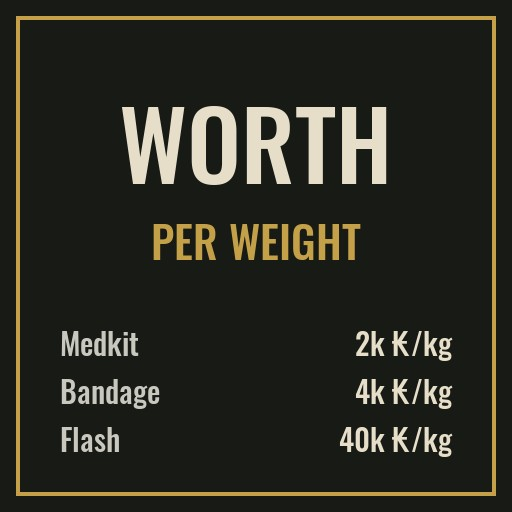
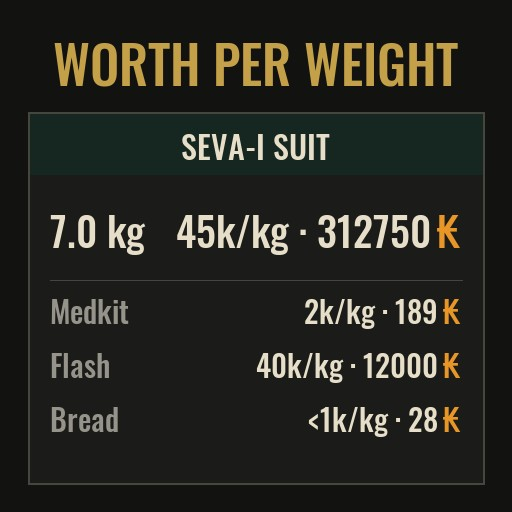
Add Makefile and tooltip-style Workshop preview
make tools | bp | mod (default) | install-local | preview | upload | clean.
The preview now shows "<value>/kg · <price>" rows as in the in-game tooltip.

diff --git a/tools/preview.py b/tools/preview.py
@@ -1,14 +1,45 @@
-"""Render the 512x512 Workshop preview image using the game's own Oswald font."""
+"""Render the 512x512 Workshop preview: a tooltip-style card using the game's own Oswald font.
+
+    python3 -I tools/preview.py <Oswald-Medium.ufont> <out.jpg>
+"""
 import sys
 from PIL import Image, ImageDraw, ImageFont
+
 font_path, out = sys.argv[1], sys.argv[2]
-img = Image.new('RGB', (512, 512), (24, 26, 22))
+W = H = 512
+BG, PANEL, HEADER = (18, 19, 17), (27, 28, 25), (22, 38, 33)
+TEXT, DIM, GOLD, ORANGE = (230, 222, 200), (150, 148, 138), (196, 160, 72), (232, 150, 40)
+f = lambda s: ImageFont.truetype(font_path, s)
+
+img = Image.new('RGB', (W, H), BG)
 d = ImageDraw.Draw(img)
-big, mid, small = (ImageFont.truetype(font_path, s) for s in (96, 44, 30))
-d.rectangle([16, 16, 495, 495], outline=(196, 160, 72), width=4)
-d.text((256, 140), 'WORTH', font=big, fill=(230, 222, 200), anchor='mm')
-d.text((256, 240), 'PER WEIGHT', font=mid, fill=(196, 160, 72), anchor='mm')
-for i, (n, v) in enumerate([('Medkit', '2k'), ('Bandage', '4k'), ('Flash', '40k')]):
-    d.text((60, 320 + i * 48), n, font=small, fill=(200, 200, 190))
-    d.text((452, 320 + i * 48), f'{v} ₭/kg', font=small, fill=(230, 222, 200), anchor='ra')
+d.text((W // 2, 62), 'WORTH PER WEIGHT', font=f(52), fill=GOLD, anchor='mm')
+
+# tooltip card
+x0, y0, x1, y1 = 28, 112, W - 28, H - 28
+d.rectangle([x0, y0, x1, y1], fill=PANEL, outline=(70, 70, 62), width=2)
+d.rectangle([x0 + 2, y0 + 2, x1 - 2, y0 + 62], fill=HEADER)
+d.text((W // 2, y0 + 33), 'SEVA-I SUIT', font=f(32), fill=TEXT, anchor='mm')
+
+# weight left, "<value>/kg · <price> ₭" right, like the game's tooltip row
+row = y0 + 118
+d.text((x0 + 22, row), '7.0 kg', font=f(40), fill=TEXT, anchor='lm')
+price_font = f(40)
+coupon = '₭'
+right = x1 - 22
+cw = d.textlength(coupon, font=price_font)
+d.text((right, row), coupon, font=price_font, fill=ORANGE, anchor='rm')
+d.text((right - cw - 6, row), '45k/kg · 312750', font=price_font, fill=TEXT, anchor='rm')
+
+# a few more rows to read as "every item"
+rows = [('Medkit', '2k/kg · 189'), ('Flash', '40k/kg · 12000'), ('Bread', '<1k/kg · 28')]
+y = row + 80
+d.line([x0 + 22, y - 30, x1 - 22, y - 30], fill=(70, 70, 62), width=1)
+for name, value in rows:
+    d.text((x0 + 22, y), name, font=f(30), fill=DIM, anchor='lm')
+    vw = d.textlength(coupon, font=f(30))
+    d.text((right, y), coupon, font=f(30), fill=ORANGE, anchor='rm')
+    d.text((right - vw - 5, y), value, font=f(30), fill=TEXT, anchor='rm')
+    y += 54
+
 img.save(out, quality=90)

diff --git a/README.md b/README.md
@@ -9,6 +9,17 @@ other mods are covered. Item names are not touched (compatible with renaming mod
 
 ## Building
 
+```sh
+make tools                     # repak + patched retoc into .bin/ (needs cargo, git)
+make UE_ROOT=/path/to/UE GAME="/path/to/S.T.A.L.K.E.R. 2 Heart of Chornobyl"   # Blueprint + Workshop folder
+make install-local             # test: copy over your local Workshop download
+make upload STEAM_USER=<name> NOTE="change note"
+make preview                   # regenerate workshop/preview.jpg from the game's font
+```
+
+The individual steps behind those targets:
+
+
 Requirements: Python 3, an installed copy of the game, and two Rust tools in `.bin/` (or on `PATH`):
 
 ```sh
